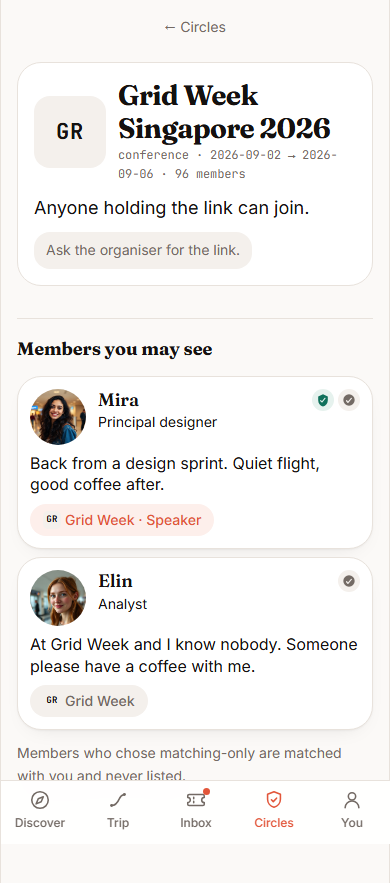
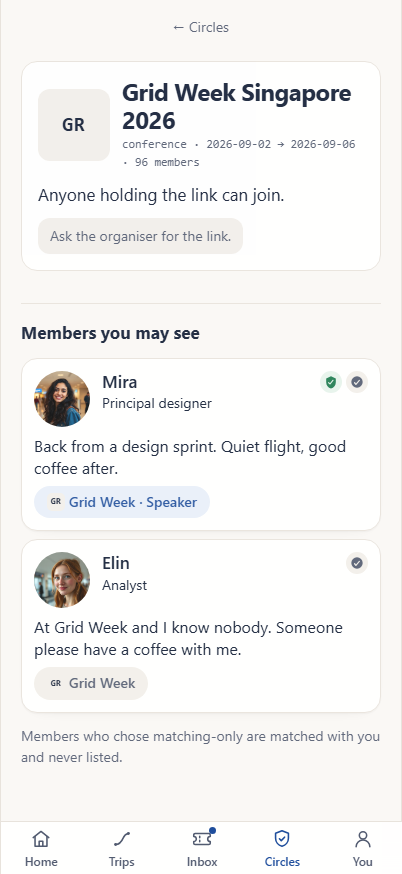
docs: STATUS and README for v5 and v6; media reshot at 402x874 in both themes

diff --git a/docs/STATUS.md b/docs/STATUS.md
@@ -1,10 +1,10 @@
 # Where the build is
 
 Branch `main`, deployed to https://shunwg.github.io/Wingman/ on every push. `npm run verify`
-is green (typecheck · purity gate · boundaries · dataset · 338 tests · 16 Playwright flows). CI runs `verify`,
+is green (typecheck · purity gate · boundaries · dataset · 388 tests · 16 Playwright flows · 6 persona flows). CI runs `verify`,
 `lint`, `build` and `e2e` before anything is published.
 
-Plan: `docs/superpowers/plans/2026-09-05-wingman-v4.md` (also the source for every per-stream plan).
+Plans: `docs/superpowers/plans/2026-09-05-wingman-v4.md` (v4), `2026-09-05-wingman-v5.md` (matchmaking + personas), `2026-09-07-v6-premium-ux.md` (the premium UX).
 Feedback and the iteration log: `docs/reviews/2026-09-05-feedback.md`.
 House rules and skill routing: `CLAUDE.md`.
 
@@ -32,6 +32,32 @@ House rules and skill routing: `CLAUDE.md`.
 | 9 | The Jobs / Thiel loop + polish (Jobs 9.55 · Thiel 9.5) | ☑ |
 | 10 | Wrap: STATUS, README, media, memo appendix, deploy check | ☑ |
 
+## v5 — matchmaking and personas
+
+| # | Stream | State |
+|---|---|---|
+| 1 | The interest vocabulary: 96 tags, adjacency by hand, free text resolves in | ☑ |
+| 2 | Two-sided fit: what I seek against what they offer, both ways; interests replace dead topics | ☑ |
+| 3 | Who you want to meet: one preference, both halves, never a signal; order-preservation test | ☑ |
+| 4 | The surfaces that collect interests, wants and the preference | ☑ |
+| 5 | Store v5: nested backfill for existing profiles | ☑ |
+| 6 | Six persona flows, screenshots named for state | ☑ |
+| 7 | Three personas, the template, the runner prompt (banned/required verbatim) | ☑ |
+| 8 | Persona run and roll-up — run on the v6 screens, see `docs/reviews/2026-09-07-personas.md` | ☑ |
+
+## v6 — premium, iOS-native UX (7 Sep 2026)
+
+| # | Stream | State |
+|---|---|---|
+| 1 | System: platform type, navy + one blue, 402×874 frame, safe areas, no webfont | ☑ |
+| 2 | Home: greeting, next journey, the one person, the moment, events at the destination; board at `#/discover` | ☑ |
+| 3 | Person: restrained band, Why meet?, Verified, Say hello in a sheet | ☑ |
+| 4 | Meeting: Suggest a time → proposal card → Add to calendar (ICS) / Propose another time | ☑ |
+| 5 | Trips: the timeline rail with people and events at each stop | ☑ |
+| 6 | Discover: For you · Same flight · Same airport · Same event | ☑ |
+| 7 | You: record row and a Verified list from the registry | ☑ |
+| 8 | Polish: screen fade, both themes at 402; personas run and rolled up | ☑ |
+
 ## Known gaps
 
 Every S1 finding from the review is closed. Deferred, with reasons in the feedback log:
@@ -43,7 +69,8 @@ Every S1 finding from the review is closed. Deferred, with reasons in the feedba
 ## Review scores
 
 6 September 2026, round 2 (`docs/reviews/2026-09-05-feedback.md`): **Jobs 9.55 / 10 · Thiel 9.5 / 10.**
-Curated evidence: `docs/media/` (twelve light screens, four dark).
+7 September 2026, persona roll-up: `docs/reviews/2026-09-07-personas.md`.
+Curated evidence: `docs/media/` (eleven light screens, four dark), shot at 402×874.
 
 ## Things a later session must not undo
 
@@ -53,6 +80,7 @@ Curated evidence: `docs/media/` (twelve light screens, four dark).
 - All writes to requests / meets / ratings go through `state/machines/`.
 - The ranking score is ordering only and is never rendered.
 - Colour is never the only indicator; airplane icons are a banned motif.
+- The platform font, one blue, an iPhone 17 Pro frame: `CLAUDE.md` § Design system. Nothing stretches to fill height.
 
 ## Commands
 

diff --git a/README.md b/README.md
@@ -20,6 +20,7 @@ npm run dev          # http://localhost:5173
 | `npm run verify` | typecheck · pure typecheck (no DOM in the engines) · import boundaries · dataset · all tests |
 | `npm run lint` | the cross-folder rules, the `Date.now()`/`Math.random()` bans, the provider-id ban in screens |
 | `npm run e2e` | Playwright flows against the dev server (starts it for you) |
+| `npm run personas:flows` | the six persona flows → `testing/screenshots/<date>/`; then the personas walk them (`testing/README.md`) |
 | `npm run build` | the production bundle in `dist/` |
 | `npm run shoot` | screenshots of every route → `docs/shots/` (needs `npm run dev` running); `SHOOT_DARK=1` shoots both themes |
 | `npm run build:data` | regenerate the worldwide airport dataset from OurAirports (network) |
@@ -36,6 +37,7 @@ npm run dev          # http://localhost:5173
 | `src/data/` | the airport index, seed cast, copy tables |
 | `scripts/` | data build, boundary checker, screenshots, brand icons, memo print |
 | `e2e/` | Playwright specs |
+| `testing/` | persona flows, personas, the runner prompt; screenshots and reports are generated |
 | `docs/` | `STATUS.md` (where the build is), `reviews/` (feedback and iteration log), `deploy-memo/`, `launch-memo/` (what was built and what is left), `thesis-memo/` (the unicorn path and the case against) — both A4 + reMarkable PDFs, `superpowers/plans/` |
 
 Reviewed 6 September 2026 against two scorecards (`docs/reviews/2026-09-05-feedback.md`): Jobs 9.55 / 10, Thiel 9.5 / 10.
